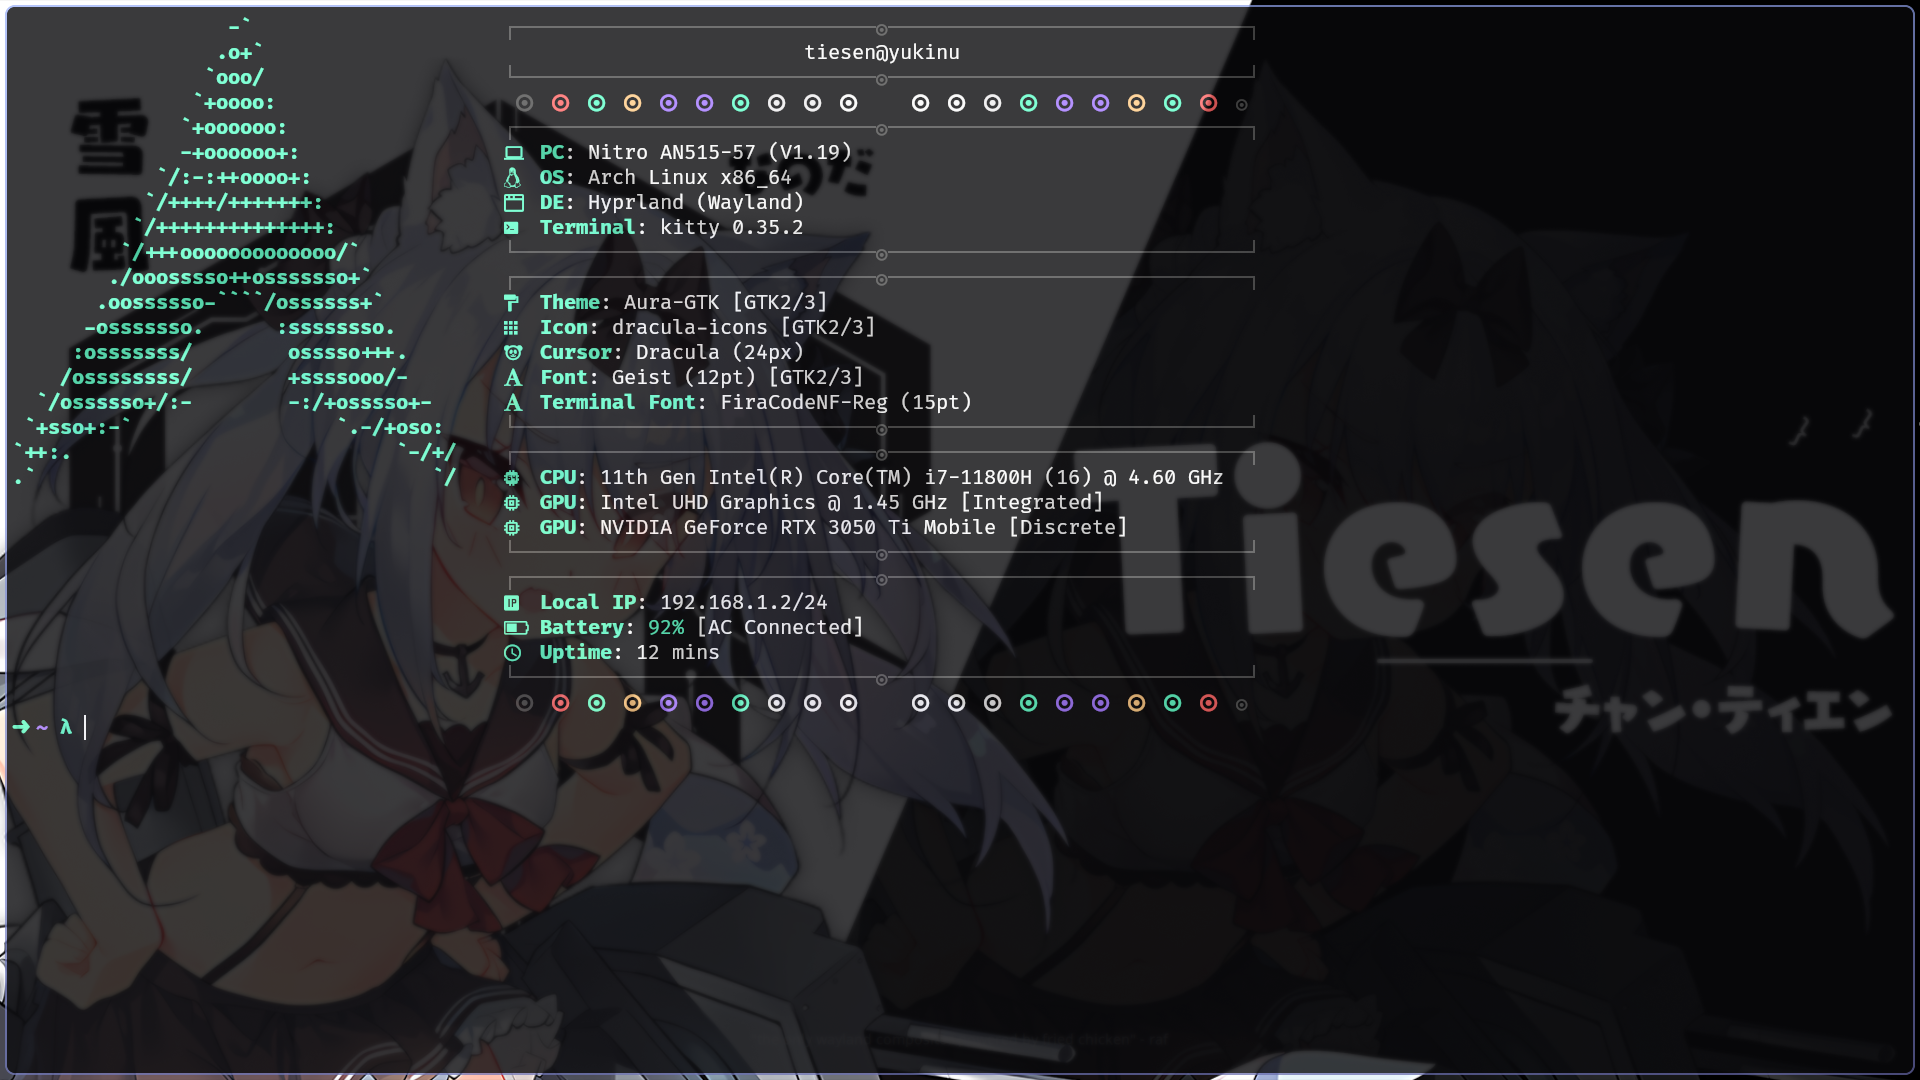
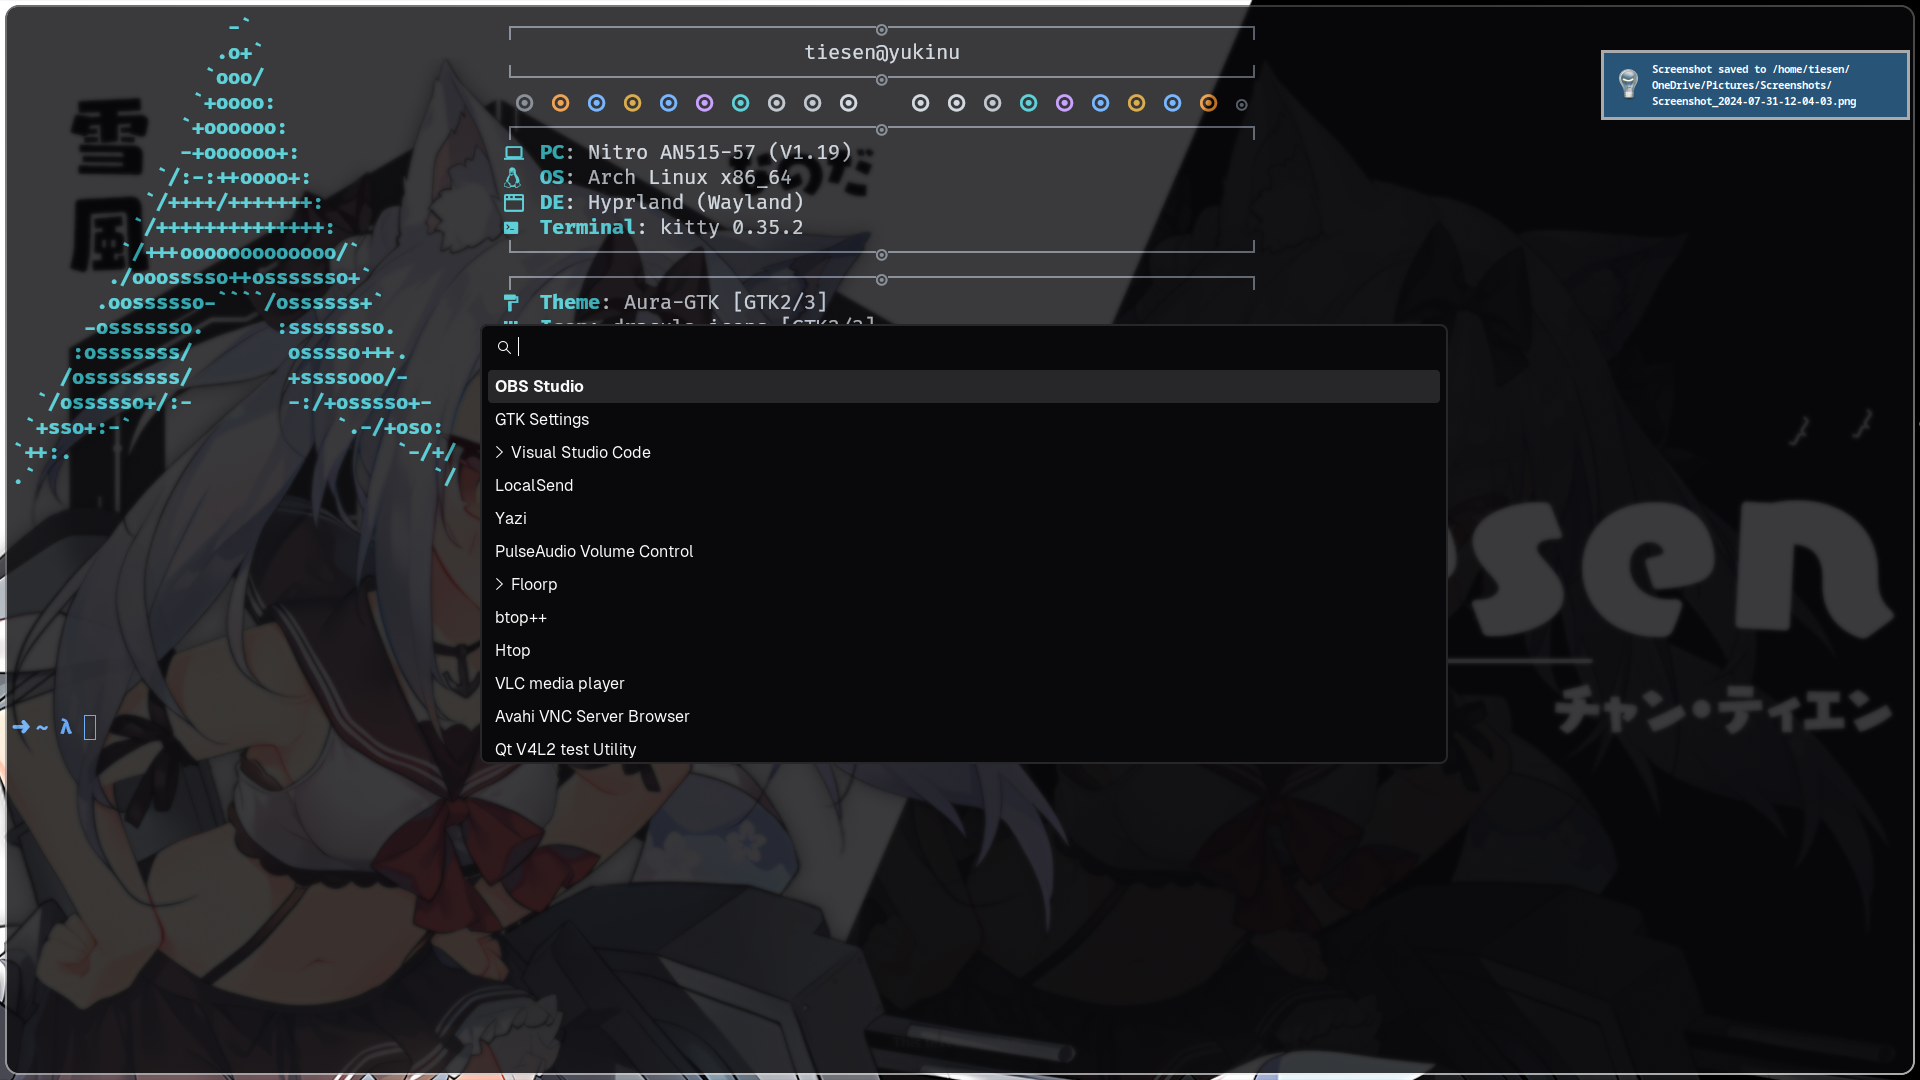
feat: update configuration files and themes
- Removed .icons/default/index.theme
- Updated assets/preview.png
- Modified hypr/env.conf, hypr/hyprland.conf, hypr/hyprpaper.conf,
  hypr/keymap.conf, hypr/windowrule.conf
- Changed kitty/theme.conf to GitHub Dark Colorblind theme
- Updated wlogout/style.css and wofi/style.css with new colors

diff --git a/wofi/style.css b/wofi/style.css
@@ -1,28 +1,27 @@
 window {
   margin: 0px;
-  border: solid 2px #282a36;
-  border-color: #98aef8;
-  background-color: #282a36;
+  border: solid 2px #27272a;
+  background-color: #09090b;
   border-radius: 8px;
 }
 
 #input {
-  margin: 5px;
+  margin: 4px;
   border: none;
-  color: #f8f8f2;
-  background-color: #44475a;
+  color: #fafafa;
+  background-color: #09090b;
 }
 
 #inner-box {
-  margin: 5px;
+  margin: 4px;
   border: none;
-  background-color: #282a36;
+  background-color: #09090b;
 }
 
 #outer-box {
-  margin: 5px;
+  margin: 4px;
   border: none;
-  background-color: #282a36;
+  background-color: #09090b;
 }
 
 #scroll {
@@ -31,21 +30,21 @@ window {
 }
 
 #text {
-  margin: 5px;
+  margin: 4px;
   border: none;
-  color: #f8f8f2;
+  color: #fafafa;
 }
 
 #entry.activatable #text {
-  color: #282a36;
+  color: #27272a;
 }
 
 #entry > * {
-  color: #f8f8f2;
+  color: #fafafa;
 }
 
 #entry:selected {
-  background-color: #44475a;
+  background-color: #27272a;
   border-radius: 4px;
 }
 

diff --git a/wlogout/style.css b/wlogout/style.css
@@ -19,11 +19,11 @@ button {
   font-family: "Geist Sans", sans-serif;
 
   /* Border */
-  border: #4d4d4d 2px solid;
+  border: #27272a 2px solid;
   border-radius: 8px;
 
   /* Color */
-  background-color: #21202e;
+  background-color: #09090b;
   background-repeat: no-repeat;
   background-position: center;
   background-size: 25%;
@@ -34,7 +34,7 @@ button {
 button:focus,
 button:active,
 button:hover {
-  border: #97aefa 2px solid;
+  border: #fafafa 2px solid;
 }
 
 #lock {
